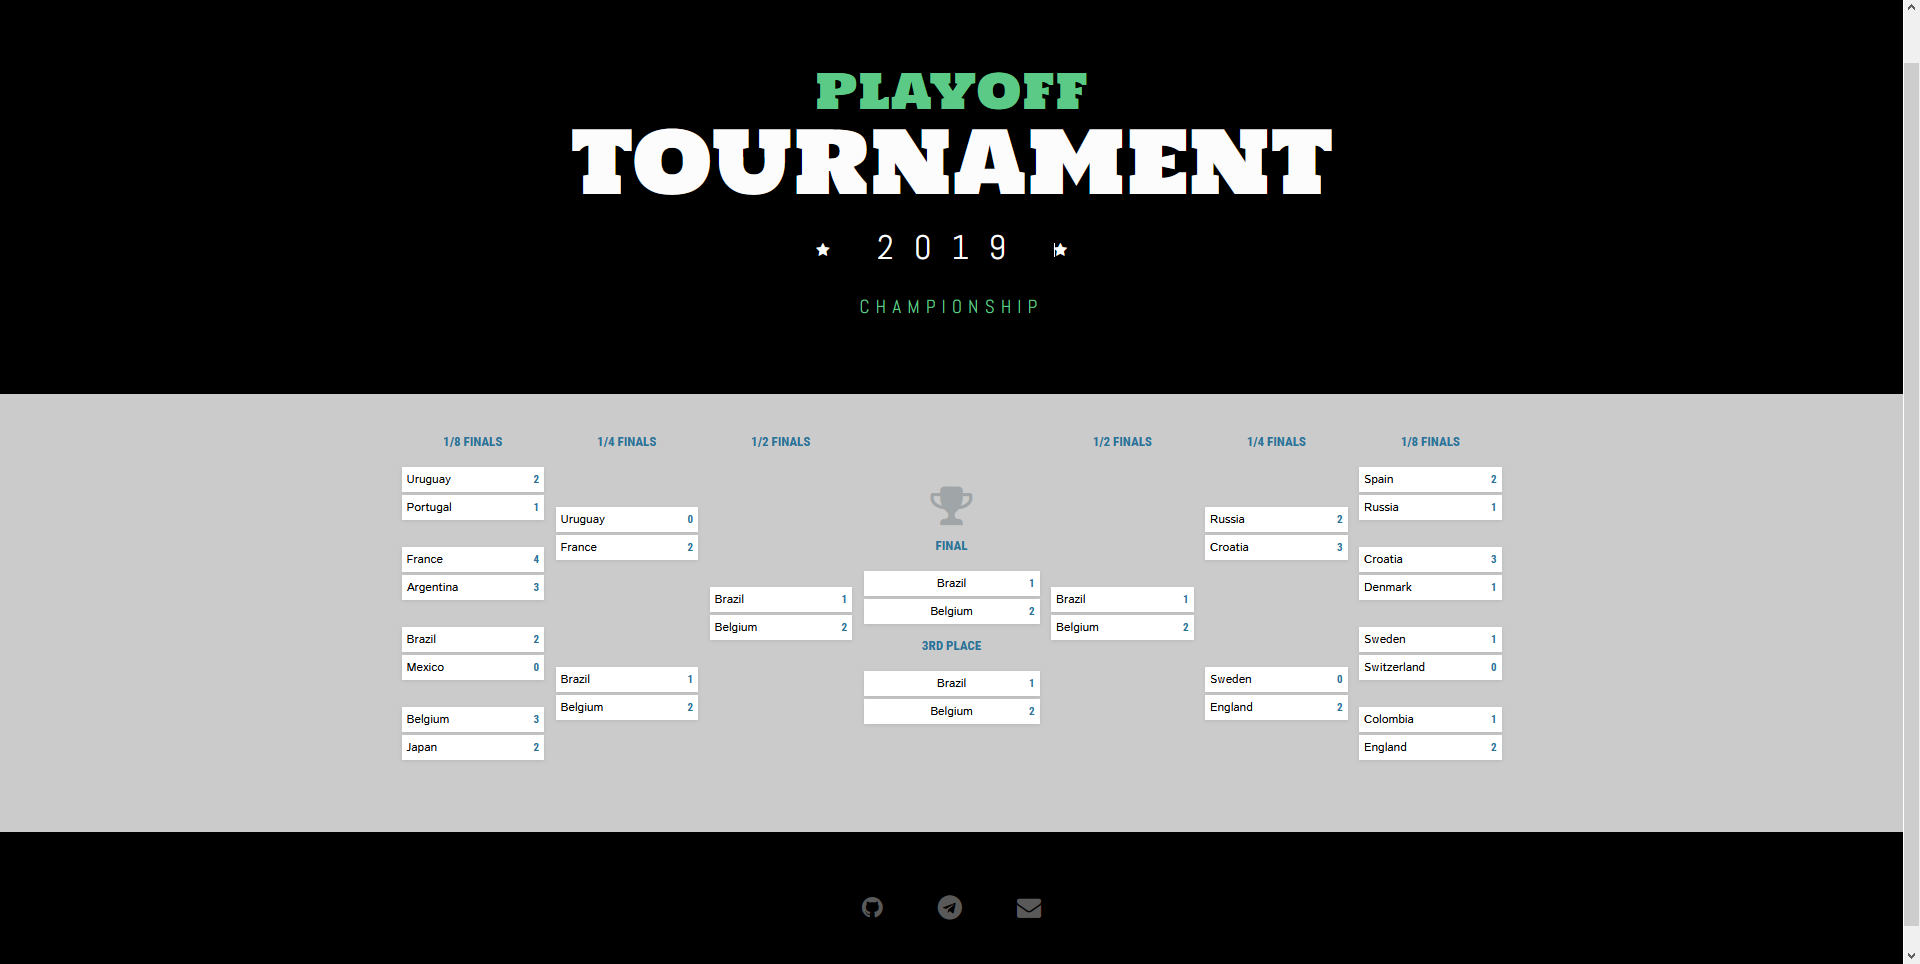
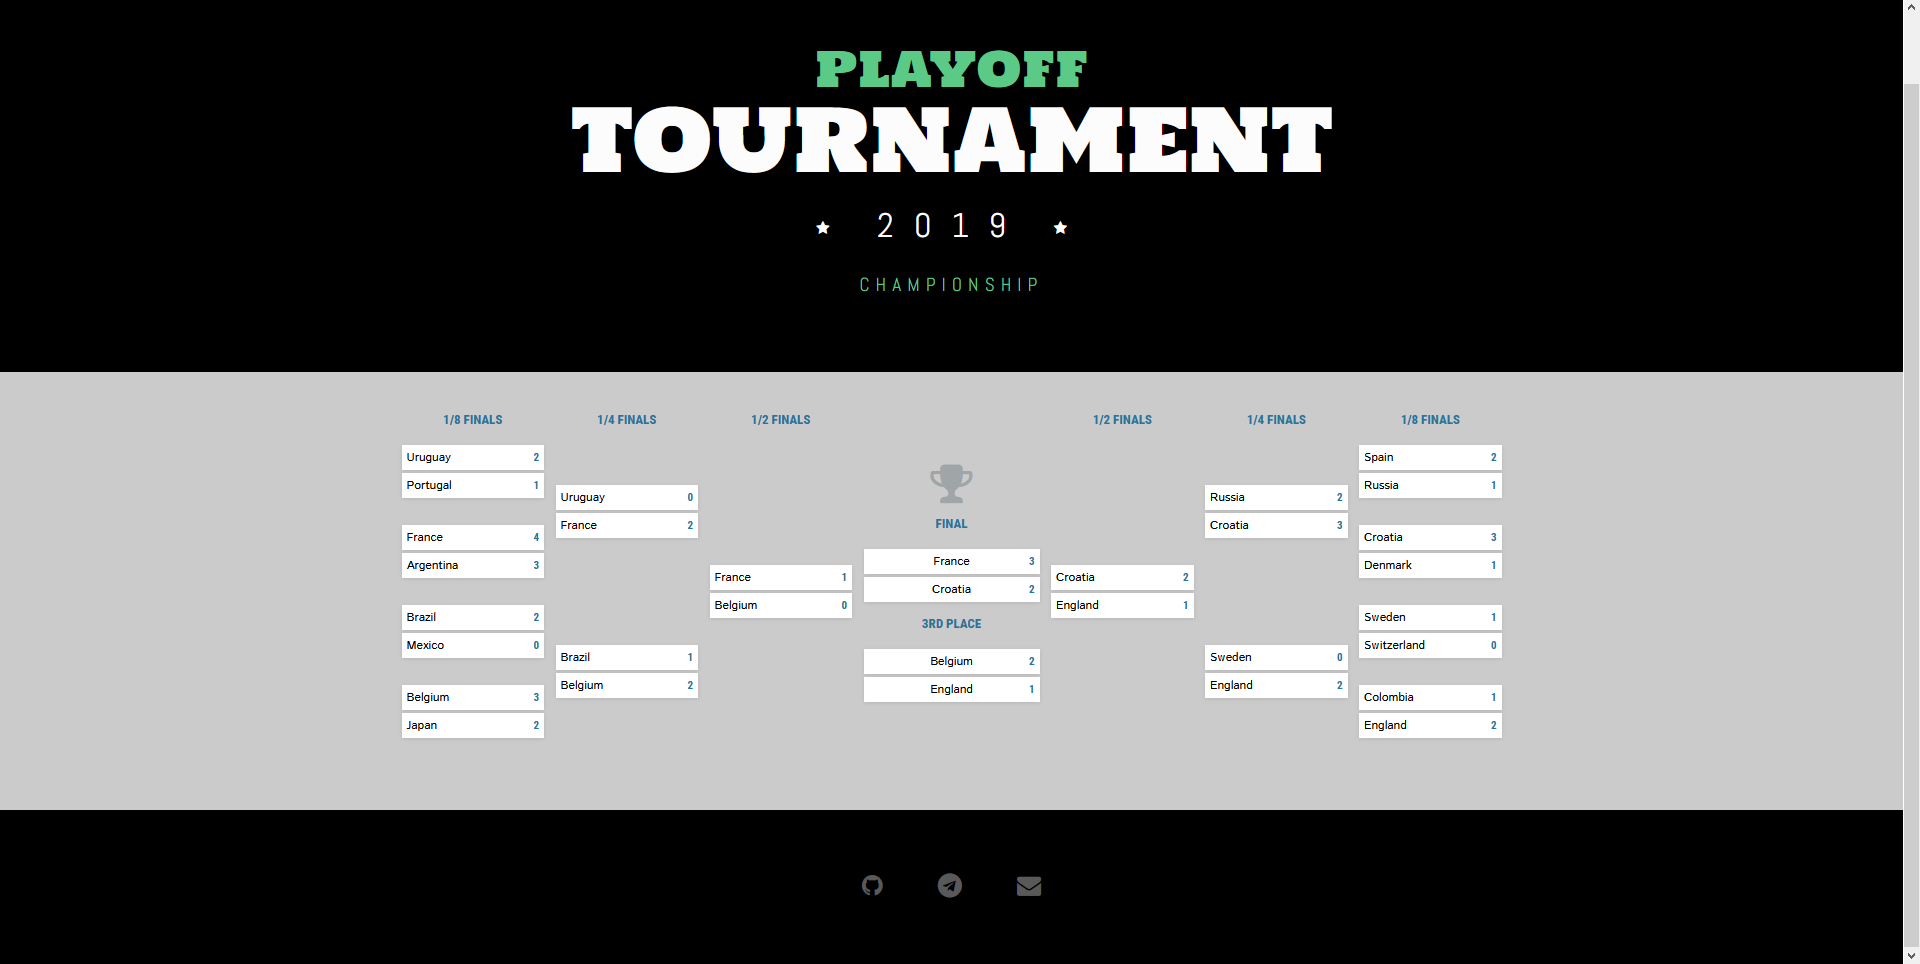
Fix: problem with render main page, refresh screenshots

diff --git a/resources/views/index.blade.php b/resources/views/index.blade.php
@@ -68,8 +68,8 @@
                         <div class="round-details">1/2 finals</div>
                         @if(isset($matches[13]))
                             <ul class="matchup current" id="match-13">
-                                <li class="team team-top">{{ $matches[$key]['top_team_name'] }}<span class="score">{{ $matches[$key]['top_team_score'] }}</span></li>
-                                <li class="team team-top">{{ $matches[$key]['bottom_team_name'] }}<span class="score">{{ $matches[$key]['bottom_team_score'] }}</span></li>
+                                <li class="team team-top">{{ $matches[13]['top_team_name'] }}<span class="score">{{ $matches[13]['top_team_score'] }}</span></li>
+                                <li class="team team-top">{{ $matches[13]['bottom_team_name'] }}<span class="score">{{ $matches[13]['bottom_team_score'] }}</span></li>
                             </ul>
                         @else
                             <ul class="matchup" id="match-13">
@@ -86,8 +86,8 @@
                         <div class="round-details">Final</div>
                         @if(isset($matches[16]))
                             <ul class="matchup current" id="match-16">
-                                <li class="team team-top">{{ $matches[$key]['top_team_name'] }}<span class="score">{{ $matches[$key]['top_team_score'] }}</span></li>
-                                <li class="team team-top">{{ $matches[$key]['bottom_team_name'] }}<span class="score">{{ $matches[$key]['bottom_team_score'] }}</span></li>
+                                <li class="team team-top">{{ $matches[16]['top_team_name'] }}<span class="score">{{ $matches[16]['top_team_score'] }}</span></li>
+                                <li class="team team-top">{{ $matches[16]['bottom_team_name'] }}<span class="score">{{ $matches[16]['bottom_team_score'] }}</span></li>
                             </ul>
                         @else
                             <ul class="matchup" id="match-16">
@@ -99,8 +99,8 @@
                         <div class="round-details">3rd place</div>
                         @if(isset($matches[15]))
                             <ul class="matchup current" id="match-15">
-                                <li class="team team-top">{{ $matches[$key]['top_team_name'] }}<span class="score">{{ $matches[$key]['top_team_score'] }}</span></li>
-                                <li class="team team-top">{{ $matches[$key]['bottom_team_name'] }}<span class="score">{{ $matches[$key]['bottom_team_score'] }}</span></li>
+                                <li class="team team-top">{{ $matches[15]['top_team_name'] }}<span class="score">{{ $matches[15]['top_team_score'] }}</span></li>
+                                <li class="team team-top">{{ $matches[15]['bottom_team_name'] }}<span class="score">{{ $matches[15]['bottom_team_score'] }}</span></li>
                             </ul>
                         @else
                             <ul class="matchup" id="match-15">
@@ -116,8 +116,8 @@
                         <div class="round-details">1/2 finals</div>
                         @if(isset($matches[14]))
                             <ul class="matchup current" id="match-14">
-                                <li class="team team-top">{{ $matches[$key]['top_team_name'] }}<span class="score">{{ $matches[$key]['top_team_score'] }}</span></li>
-                                <li class="team team-top">{{ $matches[$key]['bottom_team_name'] }}<span class="score">{{ $matches[$key]['bottom_team_score'] }}</span></li>
+                                <li class="team team-top">{{ $matches[14]['top_team_name'] }}<span class="score">{{ $matches[14]['top_team_score'] }}</span></li>
+                                <li class="team team-top">{{ $matches[14]['bottom_team_name'] }}<span class="score">{{ $matches[14]['bottom_team_score'] }}</span></li>
                             </ul>
                         @else
                             <ul class="matchup" id="match-14">
